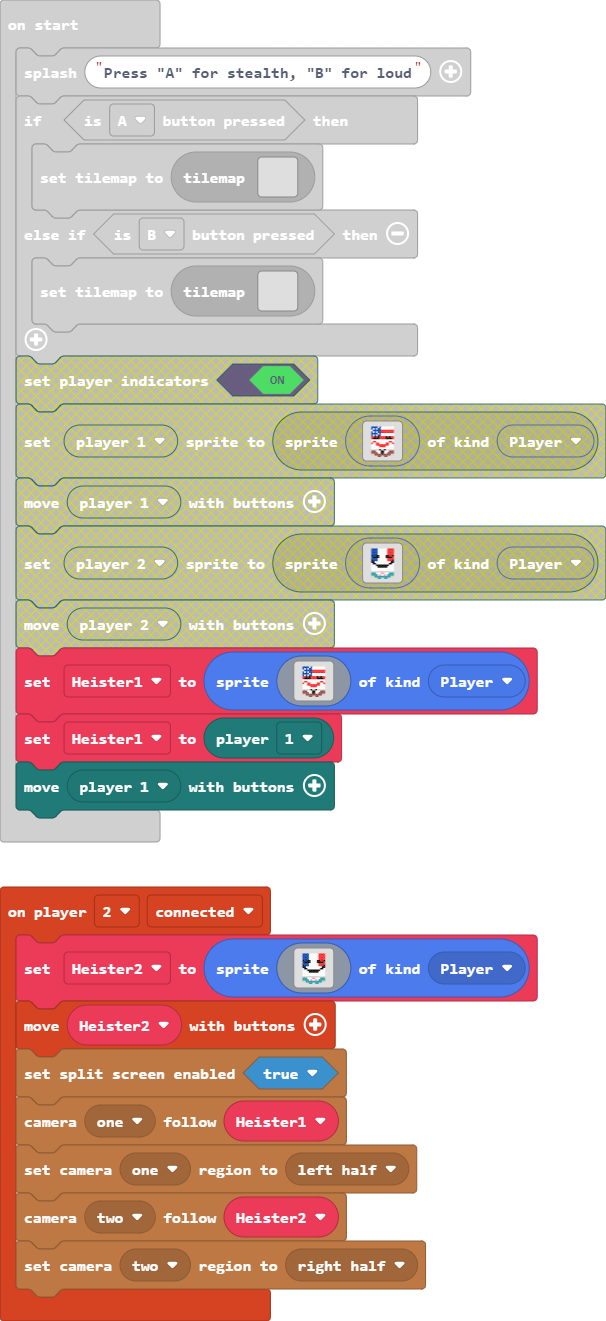
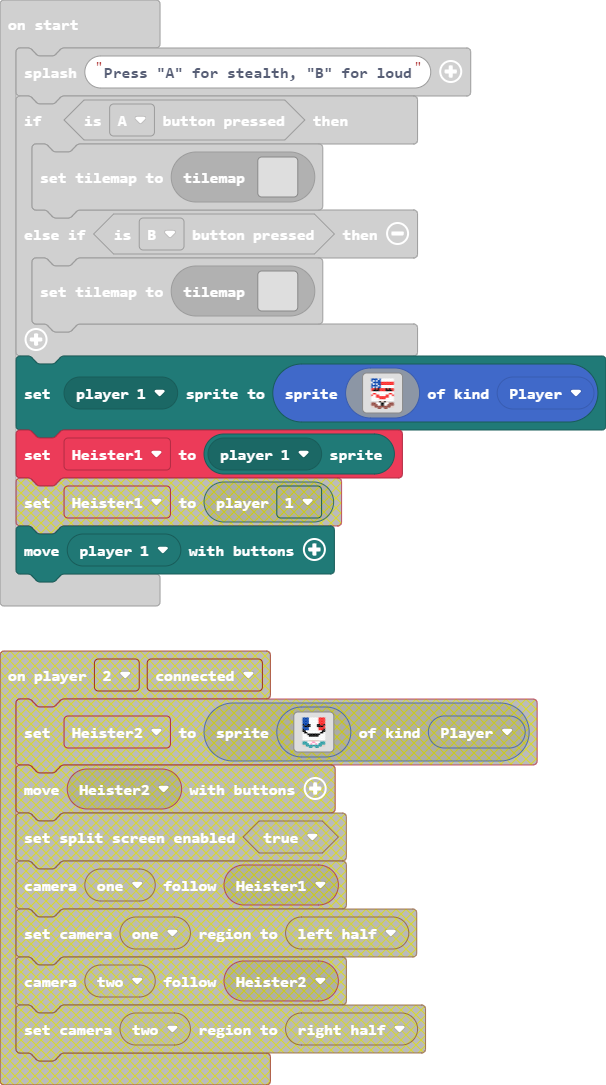
Update main.blocks, main.ts

diff --git a/main.ts b/main.ts
@@ -1,20 +1,9 @@
-controller.player2.onEvent(ControllerEvent.Connected, function () {
-    Heister2 = sprites.create(assets.image`Luxembourg`, SpriteKind.Player)
-    controller.moveSprite(Heister2)
-    splitScreen.setSplitScreenEnabled(true)
-    splitScreen.cameraFollowSprite(splitScreen.Camera.Camera1, Heister1)
-    splitScreen.setCameraRegion(splitScreen.Camera.Camera1, splitScreen.CameraRegion.VerticalLeftHalf)
-    splitScreen.cameraFollowSprite(splitScreen.Camera.Camera2, Heister2)
-    splitScreen.setCameraRegion(splitScreen.Camera.Camera2, splitScreen.CameraRegion.VerticalRightHalf)
-})
-let Heister2: Sprite = null
-let Heister1: Sprite = null
 game.splash("Press \"A\" for stealth, \"B\" for loud")
 if (controller.A.isPressed()) {
     tiles.setCurrentTilemap(tilemap`level1`)
 } else if (controller.B.isPressed()) {
     tiles.setCurrentTilemap(tilemap`level2`)
 }
-Heister1 = sprites.create(assets.image`Austin`, SpriteKind.Player)
-Heister1 = mp.playerSelector(mp.PlayerNumber.One)
+mp.setPlayerSprite(mp.playerSelector(mp.PlayerNumber.One), sprites.create(assets.image`Austin`, SpriteKind.Player))
+let Heister1 = mp.getPlayerSprite(mp.playerSelector(mp.PlayerNumber.One))
 mp.moveWithButtons(mp.playerSelector(mp.PlayerNumber.One))
